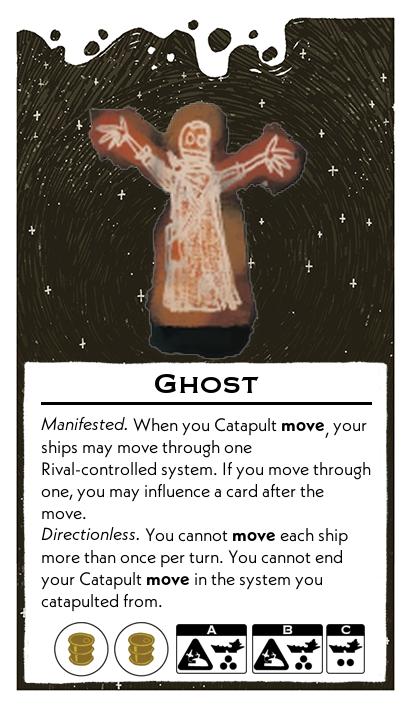
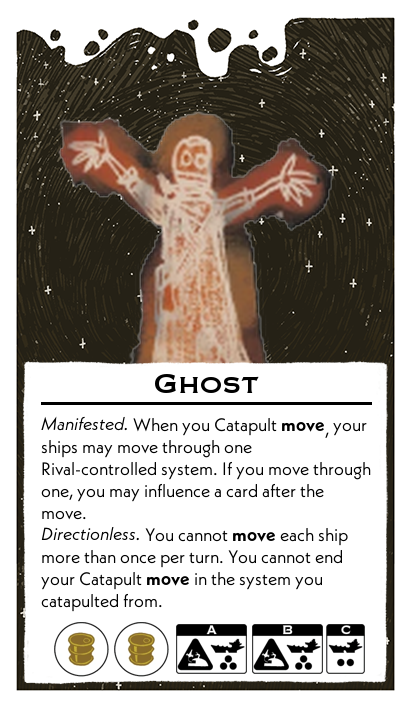
minor mov updates

Changed region(s): [[0.146, 0.1243, 0.8175, 0.5282]]

diff --git a/scripts/leadersFormatted.py b/scripts/leadersFormatted.py
@@ -248,7 +248,9 @@ leaders = [
             "B": {"ships": 3, "building": "starport"},
             "C": {"ships": 2, "building": "None"}
         },
-        "body_font_size": 18
+        "body_font_size": 18,
+        "zoom": 1.25,
+        "boundary_shift": 0.2
     },
     # Chosen
     {
@@ -530,7 +532,7 @@ leaders = [
     {
         "name": "Golem",
         "abilities": (
-            "*Ironclad.* After a battle where one or more of your ships is destroyed, you may discard a resource to keep all destroyed ships damaged instead.\n"
+            "*Ironclad.* After a battle where one or more of your ships is destroyed, you may discard a resource to keep all your destroyed ships damaged instead.\n"
             "*Cold.* At the end of each chapter, destroy all damaged loyal ships."
         ),
         "resources": ["Material", "Fuel"],
@@ -671,7 +673,8 @@ leaders = [
             "C": {"ships": 3, "building": "None"}
         },
         "body_font_size": 18,
-        "zoom": 1
+        "zoom": 1,
+        "boundary_shift": 0.1
     },
     # Curator
     {
